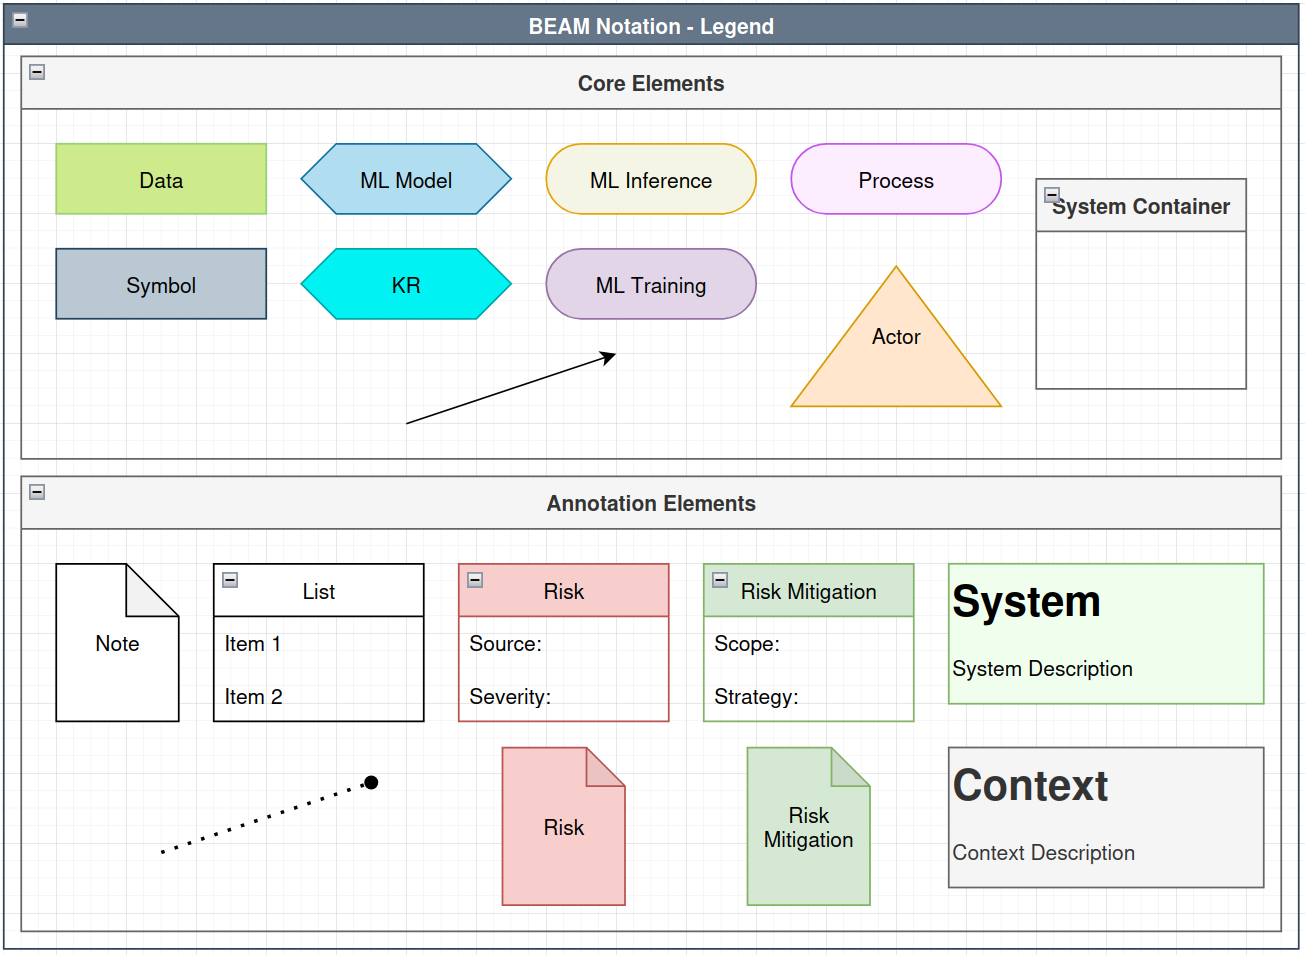
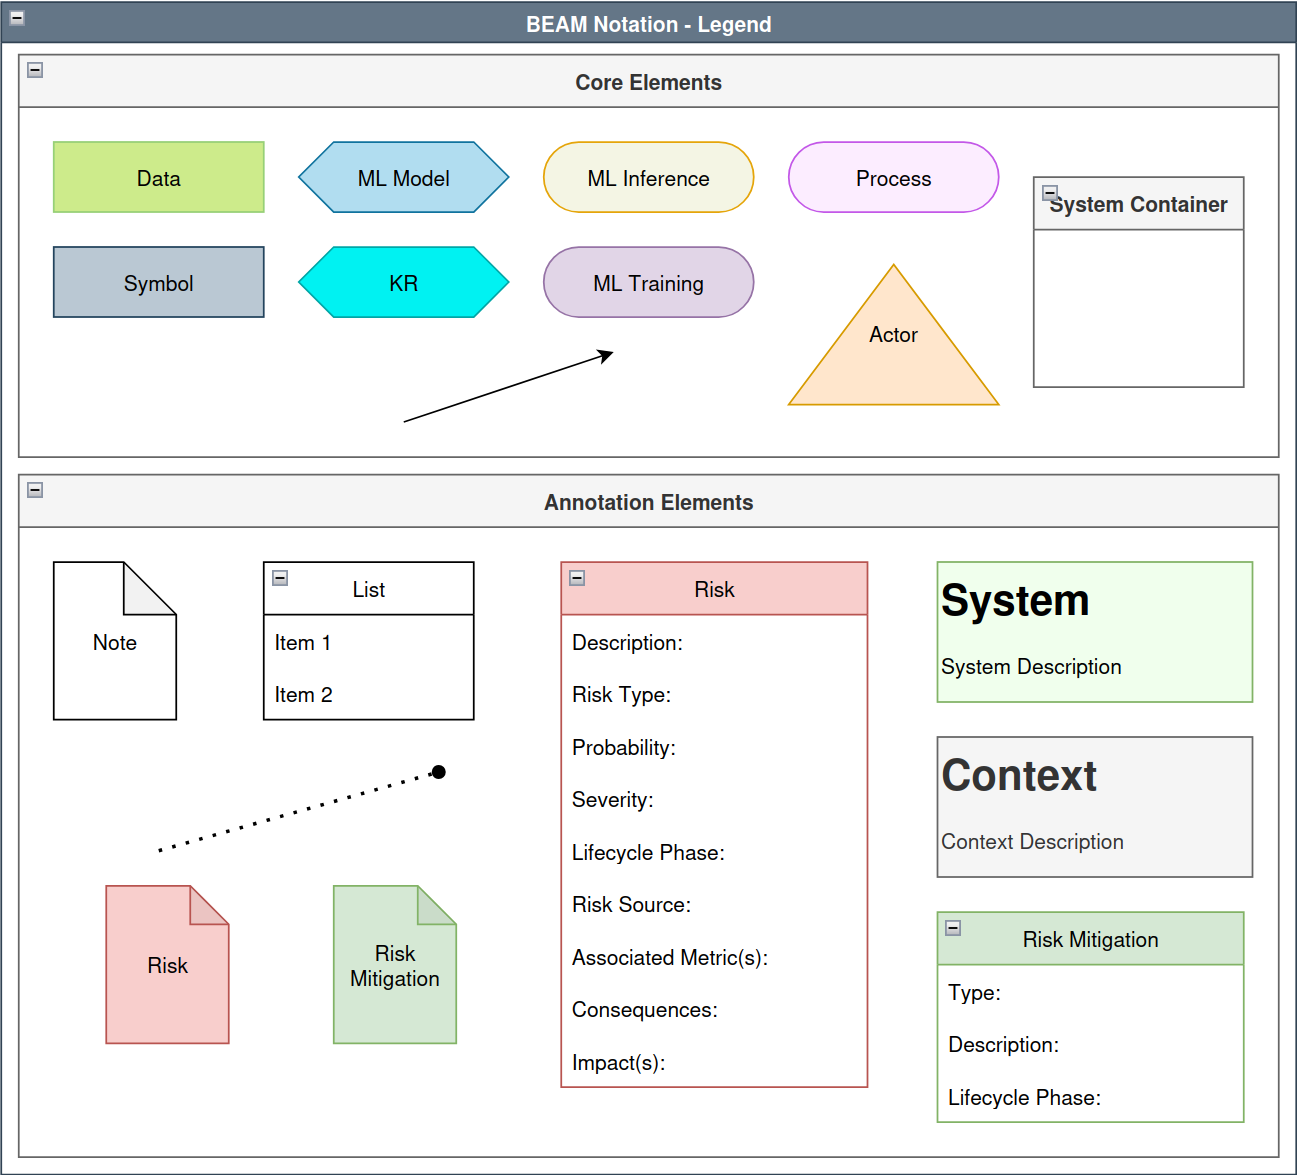
update detailed technical documentation with updates to risk and mitigation elements

diff --git a/beam_technical_documentation_v3.md b/beam_technical_documentation_v3.md
@@ -63,9 +63,9 @@ In addition to the functional building blocks represented by the core elements, 
 |---|---|---|---|
 | `Annotation Connector`                      | dotted arrow with round arrowhead             | any connection of an annotation element or further details | ![Dotted Connector](./images/dotted_con_element.png) |
 | `Risk (Text)`                               | white box with red title area and elements    | bias in training data, poor output quality | ![Risk (Text)](./images/risk_text_element.png) |
-| `Risk (List)`                               | red box with folded corner                    | any risk with multiple details (source & severity are just examples) | ![Risk (List)](./images/risk_list_element.png) |
+| `Risk (List)`                               | red box with folded corner                    | see above | ![Risk (List)](./images/risk_list_element.png) |
 | `Risk Mitigation (Text)`                    | white box with green title area and elements  | training data selection process, any measure to mitigate risk | ![Risk Mitigation (Text)](./images/mitigation_text_element.png) |
-| `Risk Mitigation (List)`                    | green box with folded corner                  | any measure to mitigate risk with multiple details (strategy & scope are just examples) | ![Risk Mitigation (List)](./images/mitigation_list_element.png) |
+| `Risk Mitigation (List)`                    | green box with folded corner                  | see above | ![Risk Mitigation (List)](./images/mitigation_list_element.png) |
 | `Note`                                      | white box with folded corner                  | any free-text comment | ![Note](./images/note_element.png) |
 | `List/Enumeration`                          | white box with title and elements             | list of parameters, settings | ![List](./images/list_element.png) |
 | `System Description`                        | light-green text box with heading                         | What does the system do? What are the goals/capabilities/limitations? What is the scope? | ![System Description](./images/system_descr_element.png) |
@@ -346,7 +346,7 @@ The red note shape can be used to attach textual information about risks to comp
 ![Risk (List)](./images/risk_list_element.png)
 
 In addtion to the Risk (Text) element, risks can also be represented similar to the List element.
-The two list entries given in the library are examples, other entries can be added and the original ones can be edited or removed.
+Using the provided properties (Description, Risk Type, Probability, ...) ensures seamless automatic processing of the BEAM model.
 
 > Colour: <span style="color:#F8CECC"> F8CECC </span>
 >
@@ -371,7 +371,7 @@ The green note shape can be used to attach textual information about risk mitiga
 ![Risk Mitigation (List)](./images/mitigation_list_element.png)
 
 In addtion to the Risk Mitigation (Text) element, risk mitigation can also be represented similar to the List element.
-The two list entries given in the library are examples, other entries can be added and the original ones can be edited or removed.
+Using the provided properties (Type, Description, Lifecycle Phase) ensures seamless automatic processing of the BEAM model.
 
 > Colour: <span style="color:#D5E8D4"> #D5E8D4 </span>
 >
